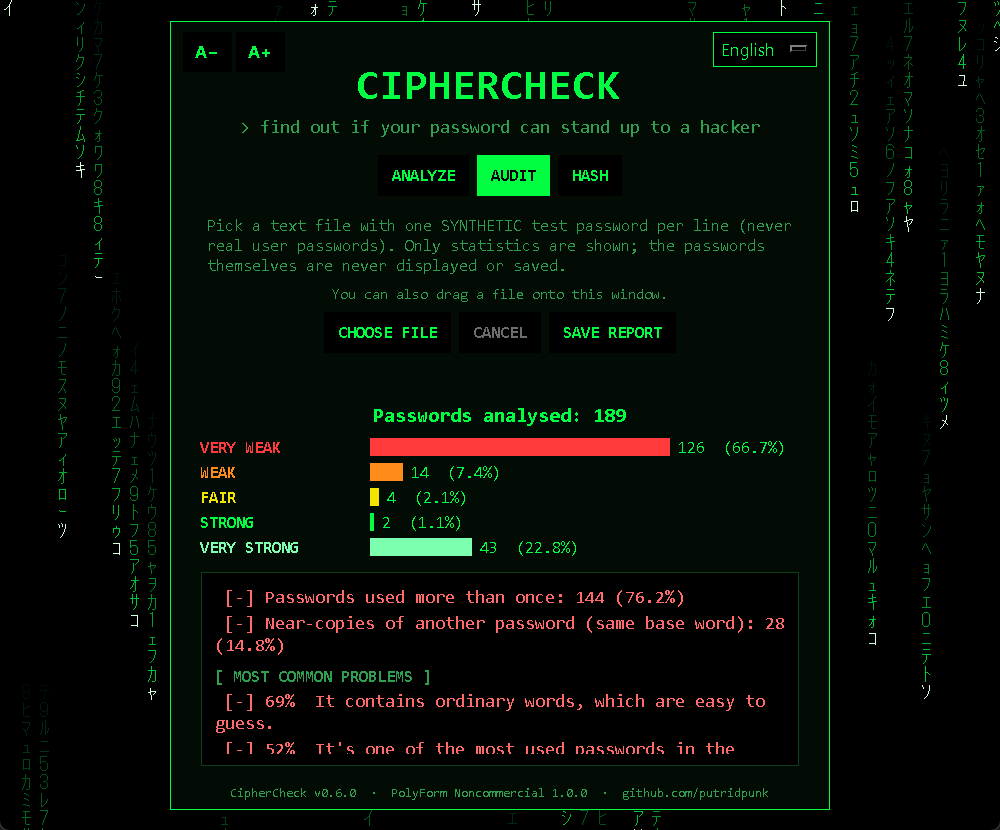
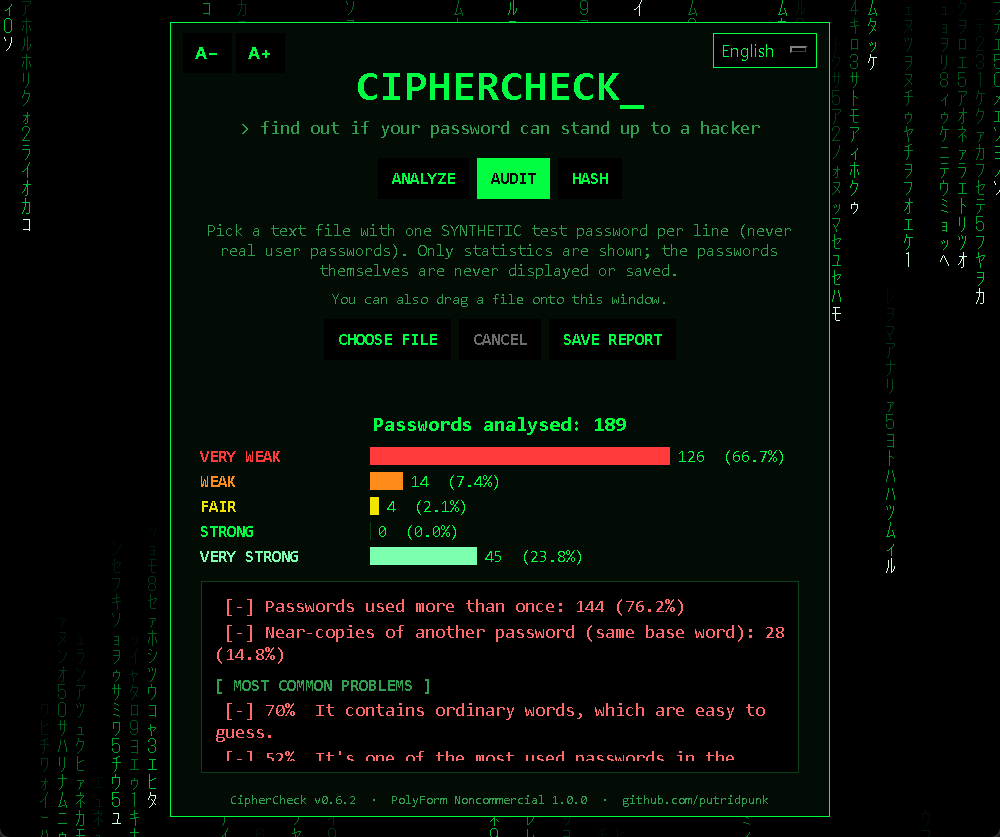
Fix 'some elements could not be removed' on uninstall; centre text; version 0.6.3
- The app holds a named mutex while open and the installer declares it
  (AppMutex), so Setup and the uninstaller ask the user to close the app
  instead of failing to delete ciphercheck.exe. Tests check the name matches.
- Window text is centred (prompts, Audit intro and hint); the lists of
  explanations and the input fields stay left-aligned (right in Arabic).
- README screenshots refreshed; changelog dated for 0.6.3.

diff --git a/src/gui/widgets.py b/src/gui/widgets.py
@@ -86,7 +86,7 @@ class UI:
         for tw in self._texts:
             tw.tag_config("head", font=(fam, self.size(10), "bold"))
             for tag in TAGS:
-                tw.tag_config(tag, justify="right" if self.rtl else "left")
+                tw.tag_config(tag, justify="right" if self.rtl else "left")  # lists are left-aligned
 
     def _reg(self, widget: Any, size: int, bold: bool = False) -> None:
         self._fonted.append((widget, size, bold))
@@ -136,7 +136,7 @@ class UI:
         e = tk.Entry(parent, textvariable=var, bg=BG, fg=GREEN,
                      insertbackground=GREEN, relief="flat", highlightthickness=1,
                      highlightbackground=DARKER, highlightcolor=GREEN,
-                     selectbackground=GREEN, selectforeground=BG, width=8, **kw)
+                     selectbackground=GREEN, selectforeground=BG, width=8, justify="left", **kw)
         self._mono.append((e, size))
         e.config(font=(MONO, self.size(size)))
         return e
@@ -177,7 +177,7 @@ class UI:
         body = tk.Frame(top, bg=PANEL, padx=28, pady=22)
         body.pack(padx=1, pady=1)
         fam = self.family
-        msg = tk.Label(body, text=self.tr(message_key), bg=PANEL, fg=GREEN, justify="right" if self.rtl else "center",
+        msg = tk.Label(body, text=self.tr(message_key), bg=PANEL, fg=GREEN, justify="center",
                        wraplength=int(380 * max(1.0, self.scale)), font=(fam, self.size(12), "bold"))
         msg.pack(pady=(0, 18))
         result = {"yes": False}

diff --git a/src/gui/app.py b/src/gui/app.py
@@ -20,6 +20,10 @@ from .widgets import UI
 
 TAB_CLASSES = {"analyze": AnalyzeTab, "audit": AuditTab, "hash": HashTab}
 REPO_URL = "https://github.com/putridpunk/CipherCheck"
+# Named Windows mutex held while the app is open; the installer (AppMutex in installer/ciphercheck.iss)
+# uses it to notice a running app instead of failing to replace or delete its files.
+INSTANCE_MUTEX = "CipherCheckAppMutex"
+_mutex_handle: Any = None
 PANEL_WIDTH = 660
 PANEL_RELHEIGHT = 0.95
 ICON = ASSETS_DIR / "ciphercheck.png"
@@ -229,6 +233,18 @@ class App:
         self.root.after(550, self._blink_title)
 
 
+def hold_instance_mutex() -> None:
+    """Windows only: tell the installer/uninstaller that the app is running."""
+    global _mutex_handle
+    if sys.platform != "win32":
+        return
+    try:
+        import ctypes
+        _mutex_handle = ctypes.windll.kernel32.CreateMutexW(None, False, INSTANCE_MUTEX)
+    except Exception:
+        pass  # purely an aid for the installer; never stop the app over it
+
+
 def run() -> None:
     if sys.platform == "win32":  # crisp text on high-DPI Windows screens
         try:
@@ -236,6 +252,7 @@ def run() -> None:
             ctypes.windll.shcore.SetProcessDpiAwareness(1)
         except Exception:
             pass
+    hold_instance_mutex()
     try:  # optional: adds drag-and-drop of files onto the window
         from tkinterdnd2 import TkinterDnD
         root: tk.Tk = TkinterDnD.Tk()

diff --git a/src/gui/audit_tab.py b/src/gui/audit_tab.py
@@ -29,9 +29,9 @@ class AuditTab:
         self._thread: threading.Thread | None = None
         self._cancel = threading.Event()
 
-        self.intro = ui.label(page, size=10, color=DIM, wraplength=600, justify="left")
+        self.intro = ui.label(page, size=10, color=DIM, wraplength=600, justify="center")
         self.intro.pack(padx=30, pady=(12, 4), fill="x")
-        self.drop_hint = ui.label(page, size=9, color=DIM, wraplength=600, justify="left")
+        self.drop_hint = ui.label(page, size=9, color=DIM, wraplength=600, justify="center")
         self.drop_hint.pack(padx=30, pady=(0, 6), fill="x")
         buttons = ui.button_row(page)
         buttons.frame.pack()
@@ -66,7 +66,7 @@ class AuditTab:
 
     def apply_language(self) -> None:
         ui = self.ui
-        self.intro.config(text=ui.tr("au_intro"), justify="right" if ui.rtl else "left")
+        self.intro.config(text=ui.tr("au_intro"))
         self.drop_hint.config(text=ui.tr("au_drop") if self.show_drop_hint else "")
         self.choose_btn.config(text=ui.tr("au_choose"))
         self.cancel_btn.config(text=ui.tr("au_cancel"))

diff --git a/tests/test_features.py b/tests/test_features.py
@@ -275,5 +275,26 @@ class AuditFileTests(unittest.TestCase):
             self.assertEqual(main(["-f", str(path), "-j", "1", "-q"]), 0)
 
 
+class InstallerMutexTests(unittest.TestCase):
+    """The uninstaller can only ask the user to close the app if the app holds the agreed mutex."""
+
+    def test_installer_and_app_agree_on_the_mutex_name(self):
+        from pathlib import Path
+        from src.gui.app import INSTANCE_MUTEX
+        iss = (Path(__file__).resolve().parent.parent / "installer" / "ciphercheck.iss").read_text(encoding="utf-8")
+        self.assertIn(f"AppMutex={INSTANCE_MUTEX}", iss)
+
+    def test_app_holds_the_mutex_on_windows(self):
+        import sys
+        if sys.platform != "win32":
+            self.skipTest("Windows only")
+        import ctypes
+        from src.gui import app
+        app.hold_instance_mutex()
+        handle = ctypes.windll.kernel32.OpenMutexW(0x00100000, False, app.INSTANCE_MUTEX)  # SYNCHRONIZE
+        self.assertTrue(handle)
+        ctypes.windll.kernel32.CloseHandle(handle)
+
+
 if __name__ == "__main__":
     unittest.main()

diff --git a/src/gui/analyze_tab.py b/src/gui/analyze_tab.py
@@ -64,7 +64,7 @@ class AnalyzeTab:
 
     def apply_language(self) -> None:
         ui = self.ui
-        self.prompt.config(text=ui.tr("prompt"), anchor="e" if ui.rtl else "w")
+        self.prompt.config(text=ui.tr("prompt"), anchor="center")
         self.privacy.config(text=ui.tr("privacy"))
         self.gen_btn.config(text=ui.tr("gen"))
         self.phrase_btn.config(text=ui.tr("phrase_btn"))

diff --git a/src/gui/hash_tab.py b/src/gui/hash_tab.py
@@ -27,7 +27,7 @@ class HashTab:
         self.var.set("")
 
     def apply_language(self) -> None:
-        self.prompt.config(text=self.ui.tr("hash_prompt"), anchor="e" if self.ui.rtl else "w")
+        self.prompt.config(text=self.ui.tr("hash_prompt"), anchor="center")
         self.refresh()
 
     def refresh(self) -> None:

diff --git a/src/__init__.py b/src/__init__.py
@@ -1,3 +1,3 @@
 """CipherCheck - a modular, local-only password security auditor."""
 
-__version__ = "0.6.2"
+__version__ = "0.6.3"

diff --git a/CHANGELOG.md b/CHANGELOG.md
@@ -5,6 +5,14 @@ versions follow [Semantic Versioning](https://semver.org/).
 
 ## [Unreleased]
 
+## [0.6.3] - 2026-11-24
+
+### Fixed
+- **Windows uninstaller: "Some elements could not be removed".** Uninstalling while CipherCheck was still open could not delete `ciphercheck.exe` (it was in use). The app now tells the installer that it is running, so the uninstaller (and a later upgrade) asks you to close it first and then removes everything. Versions already installed keep their old uninstaller: close the app before uninstalling them, or install the new version over them first.
+
+### Changed
+- Text in the window is now centred (the prompts above the input fields, the Audit tab's intro and hint), while the lists of explanations and the input fields stay left-aligned (right-aligned lists in Arabic).
+
 ## [0.6.2] - 2026-11-24
 
 ### Fixed
@@ -91,7 +99,8 @@ versions follow [Semantic Versioning](https://semver.org/).
 ### Added
 - First release: entropy estimation, pattern and dictionary detection, plain-language desktop app in 9 languages (Matrix theme), command-line tool, TXT / JSON / HTML reports.
 
-[Unreleased]: https://github.com/putridpunk/CipherCheck/compare/v0.6.2...HEAD
+[Unreleased]: https://github.com/putridpunk/CipherCheck/compare/v0.6.3...HEAD
+[0.6.3]: https://github.com/putridpunk/CipherCheck/compare/v0.6.2...v0.6.3
 [0.6.2]: https://github.com/putridpunk/CipherCheck/compare/v0.6.1...v0.6.2
 [0.6.1]: https://github.com/putridpunk/CipherCheck/compare/v0.6.0...v0.6.1
 [0.6.0]: https://github.com/putridpunk/CipherCheck/compare/v0.5.0...v0.6.0
